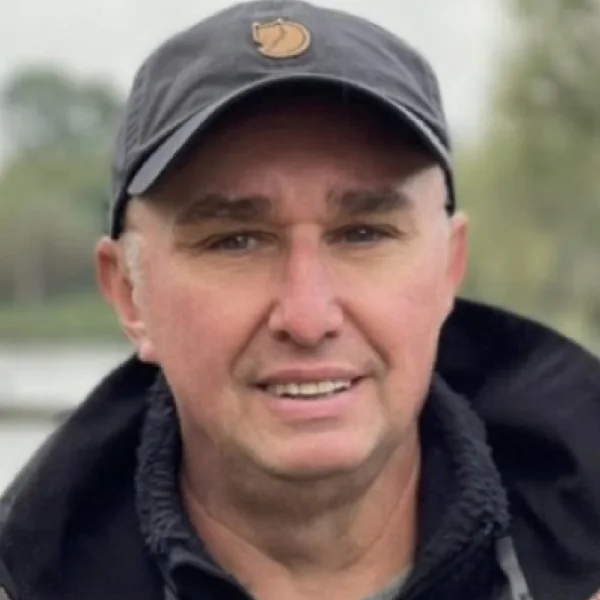
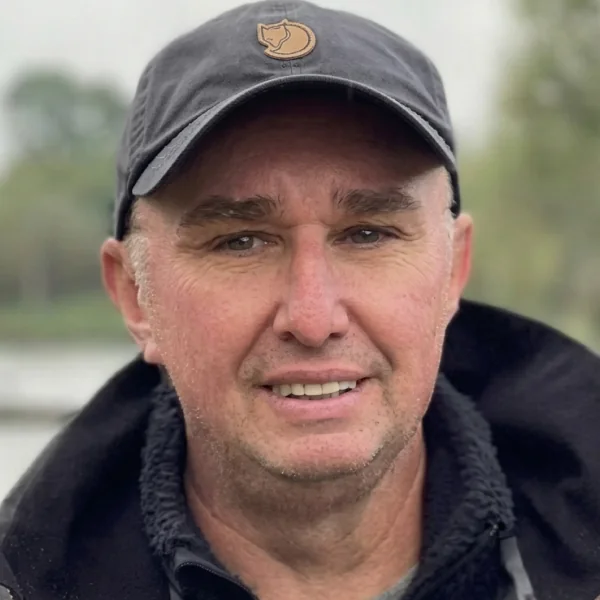
Футер завжди внизу сторінки; оновлено фото Тупіцин Ян
Claude-Session: https://claude.ai/code/session_01BzNdATegdRBhExRRjCwzWD

diff --git a/index.html b/index.html
@@ -27,8 +27,8 @@
   <link rel="preconnect" href="https://script.googleusercontent.com" crossorigin>
   <link rel="preload" href="assets/fonts/fixel-cyrillic-var.woff2" as="font" type="font/woff2" crossorigin>
   <link rel="preload" href="assets/fish.webp?v=2" as="image" type="image/webp">
-  <link rel="stylesheet" href="assets/style.css?v=20261114a">
-  <script src="config.js?v=20261114a"></script>
+  <link rel="stylesheet" href="assets/style.css?v=20261114b">
+  <script src="config.js?v=20261114b"></script>
   <script>
     // Запитуємо результати одразу, паралельно з завантаженням решти сторінки
     (function () {
@@ -44,8 +44,8 @@
     // Посилання на картку (…/#p9, startapp=p9): з першого кадру ховаємо головну, щоб не блимав список до картки
     if (/(?:tgWebAppStartParam=|#)p\d+(?:&|$)/.test(location.hash + '&' + location.search.slice(1))) document.documentElement.className += ' view-card deep-wait';
   </script>
-  <script src="assets/i18n.js?v=20261114a"></script>
-  <script src="assets/app.js?v=20261114a" defer></script>
+  <script src="assets/i18n.js?v=20261114b"></script>
+  <script src="assets/app.js?v=20261114b" defer></script>
 </head>
 <body>
   <header class="topbar">

diff --git a/assets/app.js b/assets/app.js
@@ -2693,7 +2693,7 @@
   // ----- Фото учасників (assets/players/players.json: «прізвище ім'я» малими літерами → файл) -----
   // Кого немає у списку або чиє фото не завантажилось — показуємо ініціали.
   var PHOTOS = {};
-  var PHOTO_V = 5;   // збільшити, коли фото замінено на нові (щоб Telegram і браузери не тримали старі)
+  var PHOTO_V = 6;   // збільшити, коли фото замінено на нові (щоб Telegram і браузери не тримали старі)
   function avatarHtml(name) {
     var f = PHOTOS[normName(name)];
     return '<span class="av' + (f ? ' av--ph' : '') + '" aria-hidden="true">' + esc(initials(name)) +

diff --git a/src/js/90-v2-photos-story.js b/src/js/90-v2-photos-story.js
@@ -29,7 +29,7 @@
   // ----- Фото учасників (assets/players/players.json: «прізвище ім'я» малими літерами → файл) -----
   // Кого немає у списку або чиє фото не завантажилось — показуємо ініціали.
   var PHOTOS = {};
-  var PHOTO_V = 5;   // збільшити, коли фото замінено на нові (щоб Telegram і браузери не тримали старі)
+  var PHOTO_V = 6;   // збільшити, коли фото замінено на нові (щоб Telegram і браузери не тримали старі)
   function avatarHtml(name) {
     var f = PHOTOS[normName(name)];
     return '<span class="av' + (f ? ' av--ph' : '') + '" aria-hidden="true">' + esc(initials(name)) +

diff --git a/assets/style.css b/assets/style.css
@@ -2603,3 +2603,8 @@ html:has(.mapsheet:not([hidden])) .toast { z-index: 260; }
   .view-card .pcard:has(.pc-storybar) .pc-sheet { padding-bottom: 24px; }
   html.view-card:has(.pc-storybar) .foot { padding-bottom: calc(112px + max(env(safe-area-inset-bottom, 0px), var(--tg-safe-area-inset-bottom, 0px))); }
 }
+
+/* Футер завжди внизу: якщо контенту мало, основна частина розтягується до висоти вікна */
+body { display: flex; flex-direction: column; min-height: 100vh; min-height: 100dvh; }
+body > .main { flex: 1 0 auto; width: 100%; }
+body > .topbar, body > .hero, body > .foot { flex: none; }

diff --git a/src/css/99-footer.css b/src/css/99-footer.css
@@ -56,3 +56,8 @@
   .view-card .pcard:has(.pc-storybar) .pc-sheet { padding-bottom: 24px; }
   html.view-card:has(.pc-storybar) .foot { padding-bottom: calc(112px + max(env(safe-area-inset-bottom, 0px), var(--tg-safe-area-inset-bottom, 0px))); }
 }
+
+/* Футер завжди внизу: якщо контенту мало, основна частина розтягується до висоти вікна */
+body { display: flex; flex-direction: column; min-height: 100vh; min-height: 100dvh; }
+body > .main { flex: 1 0 auto; width: 100%; }
+body > .topbar, body > .hero, body > .foot { flex: none; }
